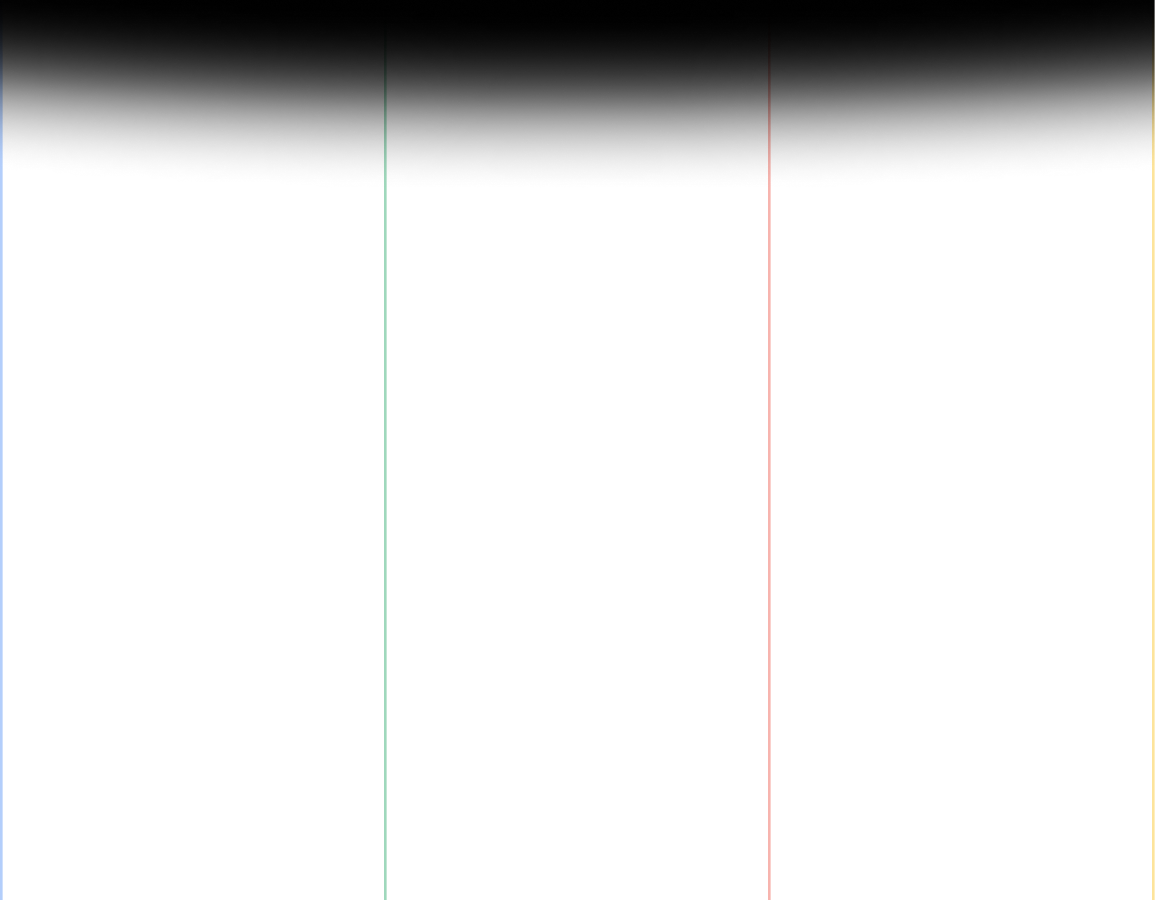
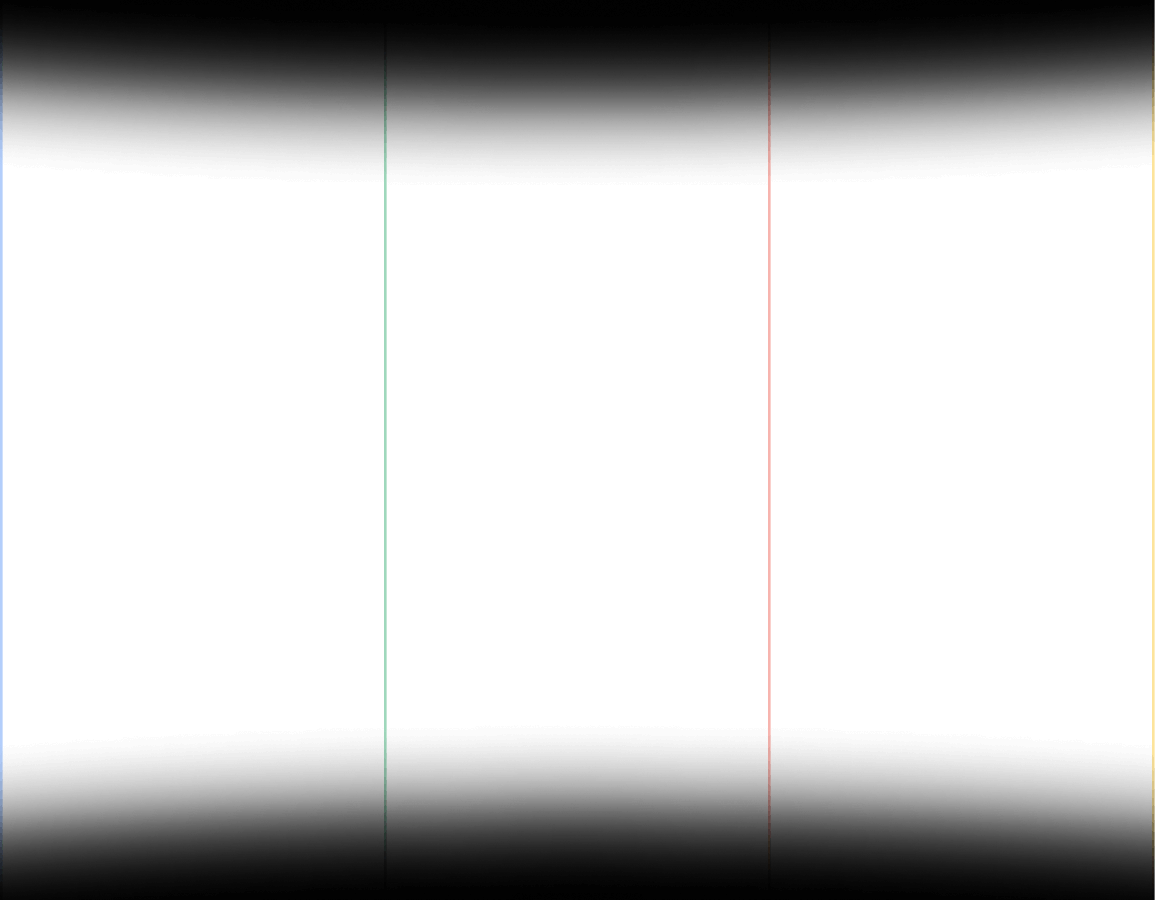
chore: main section design

Changed region(s): [[0.0, 0.84, 1.0, 1.0]]

diff --git a/pages/index.tsx b/pages/index.tsx
@@ -1,11 +1,46 @@
 import React from 'react';
+import Image from 'next/image';
+
+import gridsDotted from 'public/images/elements/gridsDotted.png';
+import gradientMain from 'public/images/gradients/gradientMain.png';
+import gdscLines from 'public/images/elements/gdscLines.png';
+import gdscLogoGlass from 'public/images/elements/gdscLogoGlass.png';
+import arrowDown from 'public/images/elements/arrowDown.png';
 
 export default function Home() {
   return (
-    <div className='grid h-[70vh] place-items-center'>
-      <h1 className='text-center font-merchant-expanded text-7xl'>
+    <div className='grid h-screen place-items-center'>
+      <h1 className='z-10 -translate-y-12  whitespace-nowrap text-center font-merchant-expanded text-8xl text-white'>
         Powered by Intellect, <br /> Driven by Values
       </h1>
+      <Image
+        src={gridsDotted}
+        alt='Dotted Grids'
+        fill
+        className='pointer-events-none -translate-y-96 object-contain object-top opacity-60'
+      />
+      <Image
+        src={gradientMain}
+        alt='Google Color Gradients'
+        fill
+        className='pointer-events-none object-contain object-bottom'
+      />
+      <Image
+        src={gdscLines}
+        alt='Google Color Lines'
+        fill
+        className='pointer-events-none z-[-1] translate-y-[30rem] object-contain object-bottom'
+      />
+      <Image
+        src={gdscLogoGlass}
+        alt='GDSC Logo Glass'
+        className='pointer-events-none absolute bottom-0 -right-4 translate-y-1/2 scale-90'
+      />
+      <Image
+        src={arrowDown}
+        alt='GDSC Logo Glass'
+        className='pointer-events-none absolute left-32 bottom-48 translate-y-1/2 scale-[.80] mix-blend-overlay'
+      />
     </div>
   );
 }

diff --git a/src/components/Layout.tsx b/src/components/Layout.tsx
@@ -1,15 +1,15 @@
 import React from 'react';
-import { Navbar, Footer } from '.';
+// import { Navbar, Footer } from '.';
 
 export const Layout = ({ children }: { children: React.ReactNode }) => {
   return (
     <>
-      <main className='min-h-screen mx-auto max-w-screen-xl'>
-        <Navbar />
+      <main className='mx-auto min-h-screen max-w-screen-xl '>
+        {/* <Navbar /> */}
         {children}
       </main>
 
-      <Footer />
+      {/* <Footer /> */}
     </>
   );
 };

diff --git a/styles/globals.css b/styles/globals.css
@@ -2,6 +2,10 @@
 @tailwind components;
 @tailwind utilities;
 
+body {
+  background-color: #000000;
+}
+
 /* Webfont: Merchant-SemiBoldCondensed */
 @font-face {
   font-family: 'MerchantSemBdCond';
